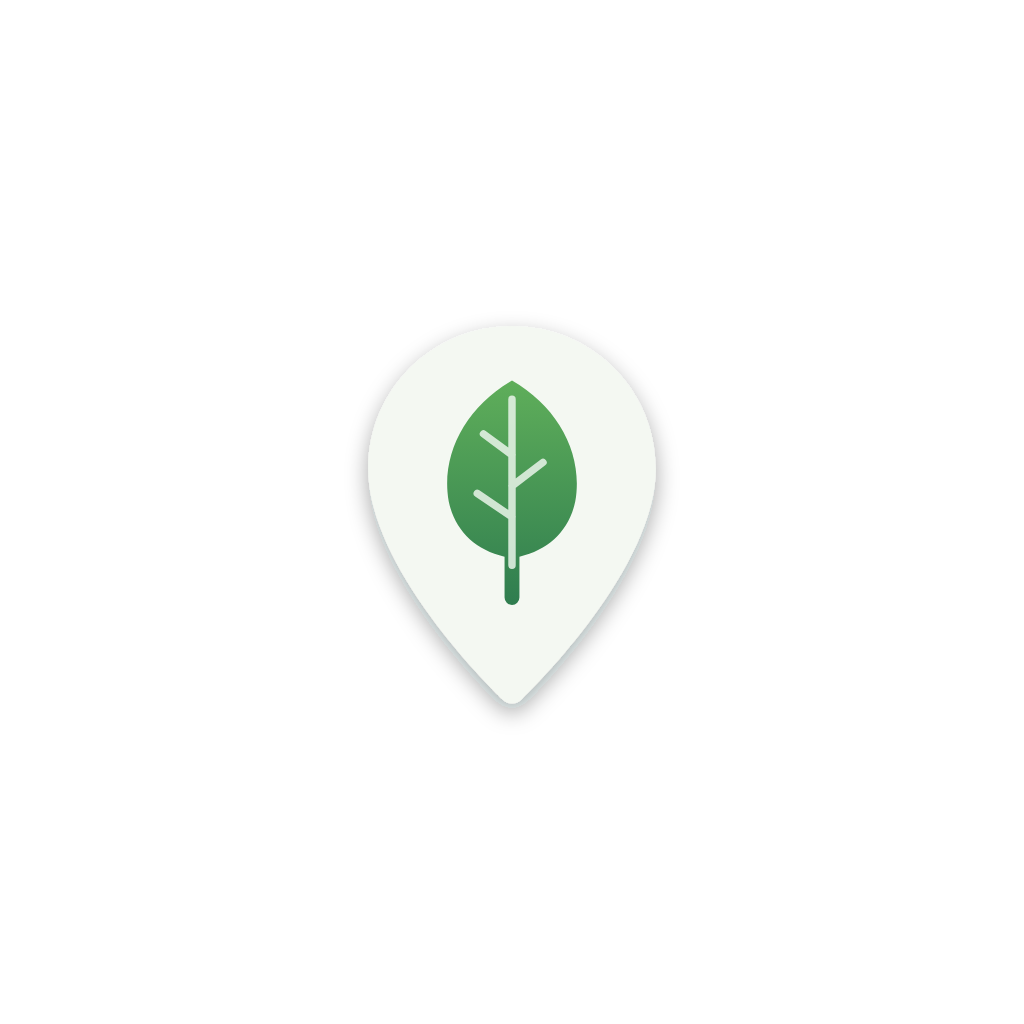
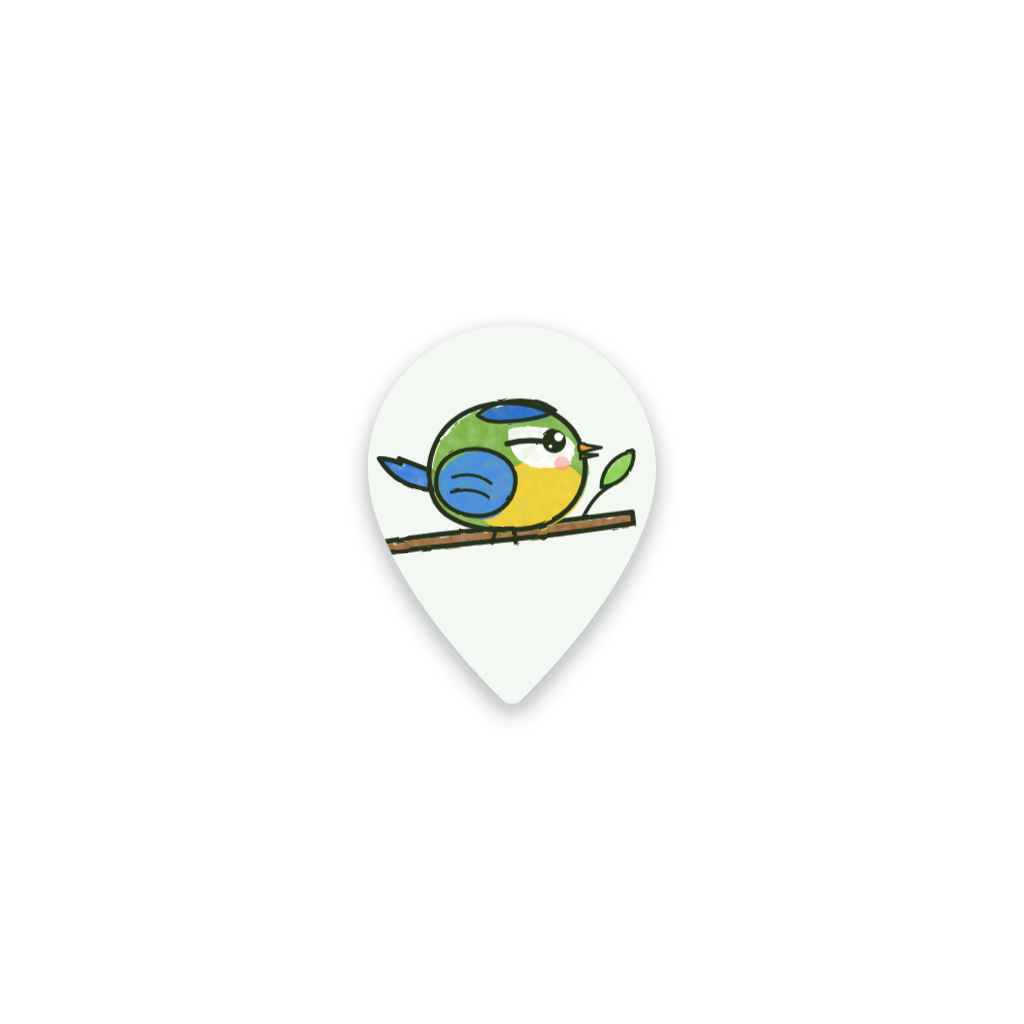
T-097: new app mark, a children's-book blue tit on a branch in the pin
The Director chose a colourful hand-drawn bird over the leaf-in-pin mark.
A blue tit (blåmes) is common across Sweden and naturally colourful, so
it reads at icon size. Ink outlines with watercolour-style fills, drawn
as SVG so every size still comes from one source: app icon, adaptive
foreground, splash, favicon, the 512px Play icon and both feature
graphics. The themed (monochrome) icon uses a plain bird silhouette with
beak and eye, because watercolour detail turns to noise in one tint.

Claude-Session: https://claude.ai/code/session_01U8ScobBhPJ32J59L9zv1gV

Changed region(s): [[0.375, 0.375, 0.625, 0.5938]]

diff --git a/scripts/store-assets/mark.js b/scripts/store-assets/mark.js
@@ -1,24 +1,76 @@
-// T-097: the Nearby mark, a map pin holding a leaf, in the app's greens (components use #2f7d4f,
-// #3a7d44, #1c3a28 and #f4f8f2). Regenerate every icon with `node scripts/store-assets/render.js`
-// and the feature graphics with `node scripts/store-assets/feature.js` (needs Playwright).
-// Coordinates are in a 1024 box; the pin is centred at (512, 512) and ~600 tall.
+// T-097: the Nearby mark, a children's-book blue tit (blåmes) on a branch inside a location pin,
+// in the app's greens. Ink outlines with watercolour-style paint set slightly off the lines. One
+// source for every size: `node scripts/store-assets/render.js` (icons) and
+// `node scripts/store-assets/feature.js` (feature graphics); both need Playwright.
 const PIN = 'M512 212c-128 0-232 102-232 230 0 160 196 352 216 372a22 22 0 0 0 32 0c20-20 216-212 216-372 0-128-104-230-232-230z';
-const LEAF = 'M512 300c-70 40-110 110-104 180 4 52 38 92 92 104v66a12 12 0 0 0 24 0v-66c54-12 88-52 92-104 6-70-34-140-104-180z';
-const VEIN = 'M512 330v268 M512 420l-46-34 M512 470l50-38 M512 520l-56-38';
+const INK = '#26301f';
+const DEFS = `<linearGradient id="bg" x1="0" y1="0" x2="0.4" y2="1"><stop offset="0" stop-color="#3a8a4f"/><stop offset="1" stop-color="#1c3a28"/></linearGradient>
+<filter id="sh" x="-20%" y="-20%" width="140%" height="140%"><feDropShadow dx="0" dy="14" stdDeviation="18" flood-color="#0b1f12" flood-opacity="0.35"/></filter>
+<filter id="wob" x="-5%" y="-5%" width="110%" height="110%"><feTurbulence type="fractalNoise" baseFrequency="0.03" numOctaves="2" seed="11"/><feDisplacementMap in="SourceGraphic" scale="4"/></filter>
+<filter id="wc" x="-10%" y="-10%" width="120%" height="120%">
+  <feTurbulence type="fractalNoise" baseFrequency="0.02" numOctaves="3" seed="5" result="n"/>
+  <feDisplacementMap in="SourceGraphic" in2="n" scale="10" result="d"/>
+  <feTurbulence type="fractalNoise" baseFrequency="0.06" numOctaves="2" seed="9" result="m"/>
+  <feColorMatrix in="m" type="matrix" values="0 0 0 0 1  0 0 0 0 1  0 0 0 0 1  0 0 0 -0.45 1.15" result="mask"/>
+  <feComposite in="d" in2="mask" operator="in"/></filter>
+<clipPath id="pinclip"><path d="${PIN}"/></clipPath>`;
+
+// Shapes (paint offset a little from the ink, like a picture book)
+const S = {
+  branch: 'M320 604 C390 592 470 586 560 576 C620 569 670 562 720 556 L722 574 C670 582 620 590 560 596 C470 606 390 612 322 622 Z',
+  twig: 'M640 566 C652 540 668 522 688 512',
+  leaf1: 'M670 516 C670 486 694 462 722 458 C724 488 702 512 670 516 Z',
+  leaf2: 'M380 596 C360 620 360 650 376 668 C394 648 398 620 380 596 Z',
+  tail: 'M400 520 C360 520 330 500 312 470 C346 470 352 488 344 470 C372 480 396 490 418 500 Z',
+  body: 'M420 560 C380 530 382 450 430 410 C470 376 540 370 590 396 C636 420 652 470 640 512 C628 552 590 580 540 584 C495 588 452 582 420 560 Z',
+  belly: 'M470 560 C470 520 500 480 560 470 C610 464 640 488 636 520 C628 556 590 580 540 584 C510 586 486 578 470 560 Z',
+  wing: 'M420 470 C450 446 500 450 524 480 C540 504 530 540 500 556 C470 570 430 560 412 536 C398 516 402 486 420 470 Z',
+  cap: 'M470 400 C500 372 560 368 596 392 C580 404 548 408 520 410 C500 412 482 410 470 400 Z',
+  cheek: 'M520 420 C560 410 610 420 628 450 C630 476 600 486 566 482 C536 478 516 460 520 420 Z',
+  stripe: 'M518 446 C540 440 560 440 574 442',
+};
+const EYE = `<circle cx="594" cy="442" r="19" fill="${INK}"/><circle cx="601" cy="435" r="7" fill="#fff"/><circle cx="588" cy="450" r="3" fill="#fff"/>`;
+const BEAK = `<path d="M634 446 L670 452 L636 460 Z M636 462 L664 464 L636 470 Z" fill="#f2a33a" stroke="${INK}" stroke-width="5" stroke-linejoin="round"/>`;
+const paint = (d, c, dx = 0, dy = 0) => `<path d="${d}" fill="${c}" transform="translate(${dx} ${dy})" filter="url(#wc)"/>`;
+const ink = (d, w = 8) => `<path d="${d}" stroke="${INK}" stroke-width="${w}" stroke-linejoin="round" stroke-linecap="round" fill="none"/>`;
+const ART = `
+  ${paint(S.tail, '#3d7fd6', 4, 3)}${ink(S.tail)}
+  ${paint(S.branch, '#9a6a3c', 3, 4)}${ink(S.branch)}
+  ${paint(S.body, '#7fb24a', 5, 4)}
+  ${paint(S.belly, '#f6d23c', 4, 3)}
+  ${paint(S.wing, '#4a8fe0', 4, 4)}${ink('M430 500 C452 492 476 496 492 510 M428 524 C450 518 474 520 488 532', 5)}
+  ${paint(S.cap, '#2f6fd0', 3, 3)}
+  ${paint(S.cheek, '#ffffff', 2, 2)}
+  ${ink(S.body)}${ink(S.wing, 7)}${ink(S.cap, 6)}${ink(S.stripe, 9)}
+  ${ink('M500 584 l-6 22 M530 586 l2 20', 6)}
+  ${EYE}${BEAK}
+  <circle cx="606" cy="478" r="12" fill="#ff8f8f" opacity="0.55"/>
+  ${ink(S.twig, 6)}${paint(S.leaf1, '#8ccf55', 3, 3)}${ink(S.leaf1, 6)}
+`;
+// The bird sits in the pin's round head; this places it there at a given overall scale.
+const PLACE = 'translate(506 446) scale(1.0) translate(-520 -490)';
+// Themed (monochrome) icon: Android tints the opaque pixels, so the bird and branch are cut out
+// of the pin as one simple silhouette (watercolour detail would turn to noise).
+const SILHOUETTE =
+  [S.tail, S.body, S.branch, S.leaf1, 'M630 444 L676 456 L630 470 Z'].map((d) => `<path d="${d}" fill="#000"/>`).join('') +
+  // The eye stays solid so the head reads as a head.
+  '<circle cx="594" cy="442" r="20" fill="#fff"/>';
+
+/** The pin with the bird, no background, in the 1024 box. */
+function mark() {
+  return `<path d="${PIN}" fill="#f4f8f2" filter="url(#sh)"/>
+  <g clip-path="url(#pinclip)"><g filter="url(#wob)" transform="${PLACE}">${ART}</g></g>`;
+}
+
 function full({ bg = true, mono = false, scale = 1 } = {}) {
   const t = `translate(512 512) scale(${scale}) translate(-512 -512)`;
-  const defs = `<defs>
-    <linearGradient id="bg" x1="0" y1="0" x2="0.4" y2="1"><stop offset="0" stop-color="#3a8a4f"/><stop offset="1" stop-color="#1c3a28"/></linearGradient>
-    <linearGradient id="lf" x1="0" y1="0" x2="0" y2="1"><stop offset="0" stop-color="#5fae5a"/><stop offset="1" stop-color="#2f7d4f"/></linearGradient>
-    <filter id="sh" x="-20%" y="-20%" width="140%" height="140%"><feDropShadow dx="0" dy="14" stdDeviation="18" flood-color="#0b1f12" flood-opacity="0.35"/></filter></defs>`;
-  // Themed (monochrome) icon: Android tints the opaque pixels, so the leaf is cut out of the pin.
   if (mono) return `<svg xmlns="http://www.w3.org/2000/svg" viewBox="0 0 1024 1024">
-    <mask id="m"><rect width="1024" height="1024" fill="#fff"/><path d="${LEAF}" transform="${t}" fill="#000"/></mask>
+    <mask id="m"><rect width="1024" height="1024" fill="#fff"/><g transform="${t}"><g transform="${PLACE}">${SILHOUETTE}</g></g></mask>
     <path d="${PIN}" transform="${t}" fill="#fff" mask="url(#m)"/></svg>`;
-  return `<svg xmlns="http://www.w3.org/2000/svg" viewBox="0 0 1024 1024">${defs}
-    ${bg ? '<rect width="1024" height="1024" fill="url(#bg)"/>' : ''}
-    <g transform="${t}"><path d="${PIN}" fill="#f4f8f2" filter="url(#sh)"/><path d="${LEAF}" fill="url(#lf)"/>
-    <path d="${VEIN}" stroke="#eaf4ea" stroke-width="12" stroke-linecap="round" fill="none" opacity="0.85"/></g></svg>`;
+  return `<svg xmlns="http://www.w3.org/2000/svg" viewBox="0 0 1024 1024"><defs>${DEFS}</defs>
+  ${bg ? '<rect width="1024" height="1024" fill="url(#bg)"/>' : ''}<g transform="${t}">${mark()}</g></svg>`;
 }
+
 const BG = `<svg xmlns="http://www.w3.org/2000/svg" viewBox="0 0 1024 1024"><defs><linearGradient id="bg" x1="0" y1="0" x2="0.4" y2="1"><stop offset="0" stop-color="#3a8a4f"/><stop offset="1" stop-color="#1c3a28"/></linearGradient></defs><rect width="1024" height="1024" fill="url(#bg)"/></svg>`;
-module.exports = { full, BG, PIN, LEAF, VEIN };
+
+module.exports = { full, BG, PIN, DEFS, mark };

diff --git a/scripts/store-assets/feature.js b/scripts/store-assets/feature.js
@@ -1,11 +1,11 @@
 /* global __dirname */
 const { chromium } = require('playwright');
-const { PIN, LEAF, VEIN } = require('./mark.js');
+const { DEFS, mark: pinMark } = require('./mark.js');
 const COPY = {
   en: { tag: 'The wildlife and plants active in your county, season by season.', sub: 'Over 8,000 Swedish species · No ads' },
   sv: { tag: 'Djur och växter som är aktiva i ditt län, säsong för säsong.', sub: 'Över 8 000 svenska arter · Ingen reklam' },
 };
-const mark = `<svg viewBox="270 200 484 640" width="150" height="198"><defs><linearGradient id="lf" x1="0" y1="0" x2="0" y2="1"><stop offset="0" stop-color="#5fae5a"/><stop offset="1" stop-color="#2f7d4f"/></linearGradient></defs><path d="${PIN}" fill="#f4f8f2"/><path d="${LEAF}" fill="url(#lf)"/><path d="${VEIN}" stroke="#eaf4ea" stroke-width="12" stroke-linecap="round" fill="none" opacity="0.85"/></svg>`;
+const mark = `<svg viewBox="270 200 484 640" width="150" height="198"><defs>${DEFS}</defs>${pinMark()}</svg>`;
 const hills = `<svg viewBox="0 0 1024 500" width="1024" height="500" style="position:absolute;inset:0" preserveAspectRatio="none">
   <circle cx="860" cy="150" r="70" fill="#f4f8f2" opacity="0.14"/>
   <circle cx="860" cy="150" r="44" fill="#f4f8f2" opacity="0.18"/>

diff --git a/docs/TASK-PLAN.md b/docs/TASK-PLAN.md
@@ -1788,7 +1788,9 @@ personal accounts. Ships the current prototype loop; IAP/data-layer/map are defe
   - Remaining: name check, graphics and screenshots, the hosted pages (Step 10), then entering it
     all in Play Console (Director).
   - ✅ **Brand mark + store graphics (2026-10-31).** The app still shipped Expo's template icon (a
-    blue "A"). New mark: a cream map pin holding a leaf on the app's greens, drawn as SVG in
+    blue "A"). New mark (Director's pick, 2026-11-01, replacing a first leaf-in-pin version): a
+    children's-book blue tit (blåmes) on a branch inside a cream map pin on the app's greens, ink
+    outlines with watercolour-style paint; the themed icon is a simple bird silhouette. Drawn as SVG in
     `scripts/store-assets/` and rendered with the bundled Playwright, so every size comes from one
     source: `assets/icon.png`, the adaptive foreground/background, the themed (monochrome) icon,
     splash, favicon, the 512² Play icon and 1024×500 feature graphics in sv and en

diff --git a/docs/launch/PLAY-STORE-LISTING.md b/docs/launch/PLAY-STORE-LISTING.md
@@ -79,7 +79,8 @@ and Play would keep those line breaks.
 ## Graphic assets
 Files are in [`store-assets/`](store-assets/); regenerate with `node scripts/store-assets/render.js`
 and `node scripts/store-assets/feature.js`.
-- [x] **App icon** 512×512: `store-assets/play-icon-512.png`. The same mark is the in-app icon
+- [x] **App icon** 512×512: `store-assets/play-icon-512.png` (a blue tit on a branch in the
+  location pin). The same mark is the in-app icon
   (`assets/icon.png`, adaptive and themed Android icons), so store and phone match.
 - [x] **Feature graphic** 1024×500: `store-assets/feature-graphic-sv.png` on the Swedish listing,
   `feature-graphic-en.png` on the English one.
